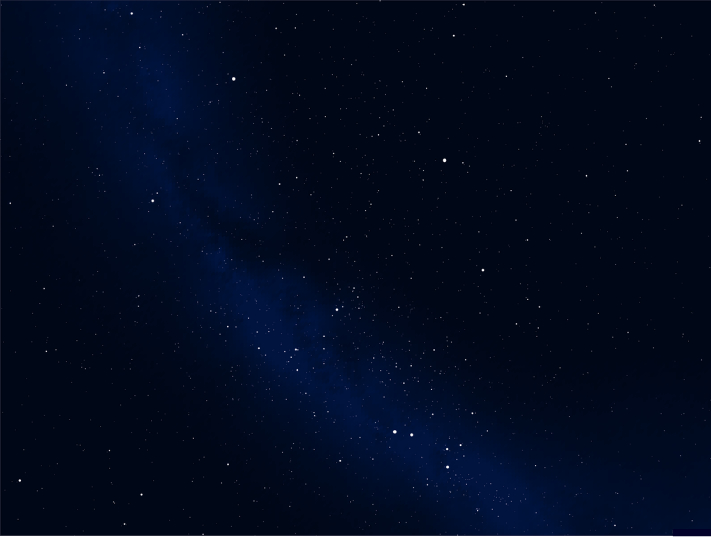
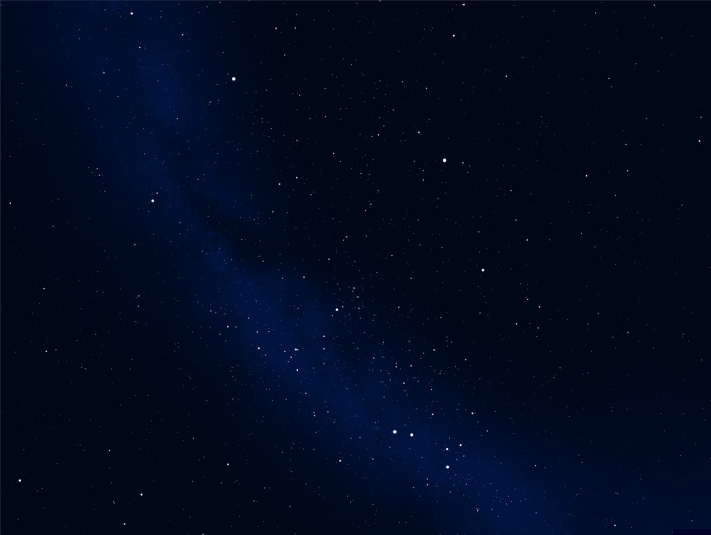
Fix rank typos, add body tags and skip links, clamp countdowns; consolidate Max photos and update starfield

Changed region(s): [[0.0, 0.9869, 1.0, 1.0]]

diff --git a/crew.html b/crew.html
@@ -11,6 +11,8 @@
 
 	<title>Crew | Lt Jesse's Birthday</title>
 </head>
+<body>
+	<a class="skip-link" href="#main">Skip to content</a>
 
 	<header>
 		<h1>Crew</h1>
@@ -28,7 +30,7 @@
 			<img class="nav-logo" src="images/icons/lunartics.png" alt="Lunartics">
 		</span>
 	</nav>
-	<main>
+	<main id="main">
 		<!--1 Robyn--> <section class="general-card">
 			<h2>Lieutenant Jesse Caddel</h2>
 			<img src="images/people/robyn-1.jpg">
@@ -134,10 +136,10 @@
 				<p><strong>Favourite Memory: </strong>Singing a duet from Little Shop of Horrors with me the first time we met.</p>
 			</section>
 		<!--11 Phil--> <section class="general-card">
-			<h2>Lietenant Commander "Rocky" Phil</h2>
+			<h2>Lieutenant Commander "Rocky" Phil</h2>
 				<p><strong>Name: </strong>Phil</p>
 				<p><strong>Callsign: </strong>Rocky</p>
-				<p><strong>Rank: </strong>Lietenant Commander</p>
+				<p><strong>Rank: </strong>Lieutenant Commander</p>
 				<p><strong>Mission 2 Ship: </strong>Havock</p>
 				<p><strong>Mission 2 Role: </strong>[UNKNOWN]</p>
 			</section>
@@ -172,21 +174,21 @@
 		<!--16 Smith--> <section class="general-card">
 			<h2>Sub Lieutenant Smith</h2>
 				<p><strong>Name: </strong>Smith</p>
-				<p><strong>Rank: </strong>Sub Lietenant</p>
+				<p><strong>Rank: </strong>Sub Lieutenant</p>
 				<p><strong>Mission 2 Ship: </strong>Havock</p>
 				<p><strong>Mission 2 Role: </strong>[UNKNOWN]</p>
 			</section>
 		<!--17 Sarah--> <section class="general-card">
 			<h2>Lieutenant Sarah</h2>
 				<p><strong>Name: </strong>Sarah</p>
-				<p><strong>Rank: </strong>Lietenant</p>
+				<p><strong>Rank: </strong>Lieutenant</p>
 				<p><strong>Mission 2 Ship: </strong>Havock</p>
 				<p><strong>Mission 2 Role: </strong>[UNKNOWN]</p>
 			</section>
 		<!--18 May--> <section class="general-card">
 			<h2>Lieutenant May</h2>
 				<p><strong>Name: </strong>May</p>
-				<p><strong>Rank: </strong>Lietenant</p>
+				<p><strong>Rank: </strong>Lieutenant</p>
 				<p><strong>Mission 1 Role: </strong>[UNKNOWN]</p>
 				<p><strong>Mission 2 Ship: </strong>Takanami</p>
 				<p><strong>Mission 2 Role: </strong>[UNKNOWN]</p>
@@ -194,7 +196,7 @@
 		<!--19 Duco--> <section class="general-card">
 			<h2>Sub Lieutenant Duco</h2>
 				<p><strong>Name: </strong>Duco</p>
-				<p><strong>Rank: </strong>Sub Lietenant</p>
+				<p><strong>Rank: </strong>Sub Lieutenant</p>
 				<p><strong>Mission 1 Role: </strong>[UNKNOWN]</p>
 				<p><strong>Mission 2 Ship: </strong>Takanami</p>
 				<p><strong>Mission 2 Role: </strong>[UNKNOWN]</p>
@@ -202,14 +204,14 @@
 		<!--20 Ed--> <section class="general-card">
 			<h2>Lieutenant Ed Davies</h2>
 				<p><strong>Name: </strong>Ed</p>
-				<p><strong>Rank: </strong>Lietenant</p>
+				<p><strong>Rank: </strong>Lieutenant</p>
 				<p><strong>Mission 2 Ship: </strong>Takanami</p>
 				<p><strong>Mission 2 Role: </strong>[UNKNOWN]</p>
 			</section>
 		<!--21 Hall--> <section class="general-card">
 			<h2>Lieutenant Owen Hall</h2>
 				<p><strong>Name: </strong>Owen</p>
-				<p><strong>Rank: </strong>Lietenant</p>
+				<p><strong>Rank: </strong>Lieutenant</p>
 				<p><strong>Mission 2 Ship: </strong>Havock</p>
 				<p><strong>Mission 2 Role: </strong>[UNKNOWN]</p>
 				<br>
@@ -229,7 +231,7 @@
 			<img src="images/people/ryan.jpg">
 				<p><strong>Name: </strong>Ryan</p>
 				<p><strong>Callsign: </strong>Bard</p>
-				<p><strong>Rank: </strong>Lietenant</p>
+				<p><strong>Rank: </strong>Lieutenant</p>
 				<p><strong>Mission 1 Role: </strong>[UNKNOWN]</p>
 				<p><strong>Mission 2 Ship: </strong>Havock</p>
 				<p><strong>Mission 2 Role: </strong>[UNKNOWN]</p>
@@ -237,14 +239,14 @@
 		<!--24 Ward--> <section class="general-card">
 			<h2>Lieutenant Commander Ward</h2>
 				<p><strong>Name: </strong>Ward</p>
-				<p><strong>Rank: </strong>Lietenant Commander</p>
+				<p><strong>Rank: </strong>Lieutenant Commander</p>
 				<p><strong>Mission 2 Ship: </strong>Havock</p>
 				<p><strong>Mission 2 Role: </strong>[UNKNOWN]</p>
 			</section>
 		<!--25 Starburst--> <section class="general-card">
 			<h2>Lieutenant Mrs Starburst</h2>
 				<p><strong>Name: </strong>Starburst</p>
-				<p><strong>Rank: </strong>Lietenant</p>
+				<p><strong>Rank: </strong>Lieutenant</p>
 				<p><strong>Mission 1 Role: </strong>[UNKNOWN]</p>
 				<p><strong>Mission 2 Ship: </strong>Takanami</p>
 				<p><strong>Mission 2 Role: </strong>[UNKNOWN]</p>
@@ -253,7 +255,7 @@
 			<h2>Lieutenant Blaze Starburst</h2>
 			<img src="images/people/blaze.png">
 				<p><strong>Name: </strong>Blaze</p>
-				<p><strong>Rank: </strong>Lietenant</p>
+				<p><strong>Rank: </strong>Lieutenant</p>
 				<p><strong>Mission 1 Role: </strong>[UNKNOWN]</p>
 				<p><strong>Mission 2 Ship: </strong>Takanami</p>
 				<p><strong>Mission 2 Role: </strong>[UNKNOWN]</p>
@@ -280,4 +282,5 @@
 			</section>
 	</main>
 	<footer>Created for Lt Jesse - Happy Birthday!</footer>
+</body>
 </html>

diff --git a/js/script.js b/js/script.js
@@ -9,6 +9,11 @@ function reloadTime() {
 
 	let timeLeft = missionDate - today;
 
+	if (timeLeft <= 0) {
+		mainSubtitle.textContent = "4 October 2026 - Deployed!";
+		return;
+	}
+
 	const missionDateDays = Math.floor(timeLeft / 86400000);
 	timeLeft -= missionDateDays * 86400000;
 
@@ -31,6 +36,11 @@ function reloadMission1Time() {
 
 	let timeLeft = missionDate - today;
 
+	if (timeLeft <= 0) {
+		mission1Subtitle.textContent = "Deployment underway!";
+		return;
+	}
+
 	const missionDateDays = Math.floor(timeLeft / 86400000);
 	timeLeft -= missionDateDays * 86400000;
 
@@ -52,6 +62,11 @@ function reloadMission2Time() {
 	const today = Date.now();
 
 	let timeLeft = missionDate - today;
+
+	if (timeLeft <= 0) {
+		mission2Subtitle.textContent = "Deployment underway!";
+		return;
+	}
 
 	const missionDateDays = Math.floor(timeLeft / 86400000);
 	timeLeft -= missionDateDays * 86400000;

diff --git a/comments.html b/comments.html
@@ -11,6 +11,8 @@
 
 	<title>Comments | Lt Jesse's Birthday</title>
 </head>
+<body>
+	<a class="skip-link" href="#main">Skip to content</a>
 
 	<header>
 		<h1>Comments</h1>
@@ -28,7 +30,7 @@
 			<img class="nav-logo" src="images/icons/lunartics.png" alt="Lunartics">
 		</span>
 	</nav>
-	<main>
+	<main id="main">
 		<section class="general-card">
 			<p>"A very kind and generous soul with an infectious enthusiasm."</p>
 			<p>- <strong>Lt Mike W</strong></p>
@@ -65,4 +67,5 @@
 			</section>
 		</main>
 	<footer>Created for Lt Jesse - Happy Birthday!</footer>
+</body>
 </html>

diff --git a/missions.html b/missions.html
@@ -10,7 +10,9 @@
 	<script src="js/script.js" defer></script>
 
 	<title>Missions | Lt Jesse's Birthday</title>
-	</head>
+</head>
+<body>
+	<a class="skip-link" href="#main">Skip to content</a>
 
 	<header>
 		<h1>Missions</h1>
@@ -28,7 +30,7 @@
 			<img class="nav-logo" src="images/icons/lunartics.png" alt="Lunartics">
 		</span>
 	</nav>
-	<main>
+	<main id="main">
 		<section class="general-card">
 			<h2>Mission 1</h2>
 			<div class="no-underline">
@@ -103,4 +105,5 @@
 		</section>
 	</main>
 	<footer>Created for Lt Jesse - Happy Birthday!</footer>
+</body>
 </html>

diff --git a/index.html b/index.html
@@ -12,6 +12,7 @@
 	<title>Home | Lt Jesse's Birthday</title>
 </head>
 <body>
+	<a class="skip-link" href="#main">Skip to content</a>
 	<header>
 		<h1>Home</h1>
 		<p class="main-subtitle">4 October 2026</p>
@@ -28,7 +29,7 @@
 			<img class="nav-logo" src="images/icons/lunartics.png" alt="Lunartics">
 		</span>
 	</nav>
-	<main>
+	<main id="main">
 		<section class="general-card">
 			<h2>Missions Overview</h2>
 			<h3>Mission 1</h3>

diff --git a/css/style.css b/css/style.css
@@ -68,10 +68,6 @@ a:focus-visible {
 	top: 0;
 }
 
-.nav {
-	border: 5px solid var(--nav);
-}
-
 nav {
 	display: grid;
 	gap: 10px;
